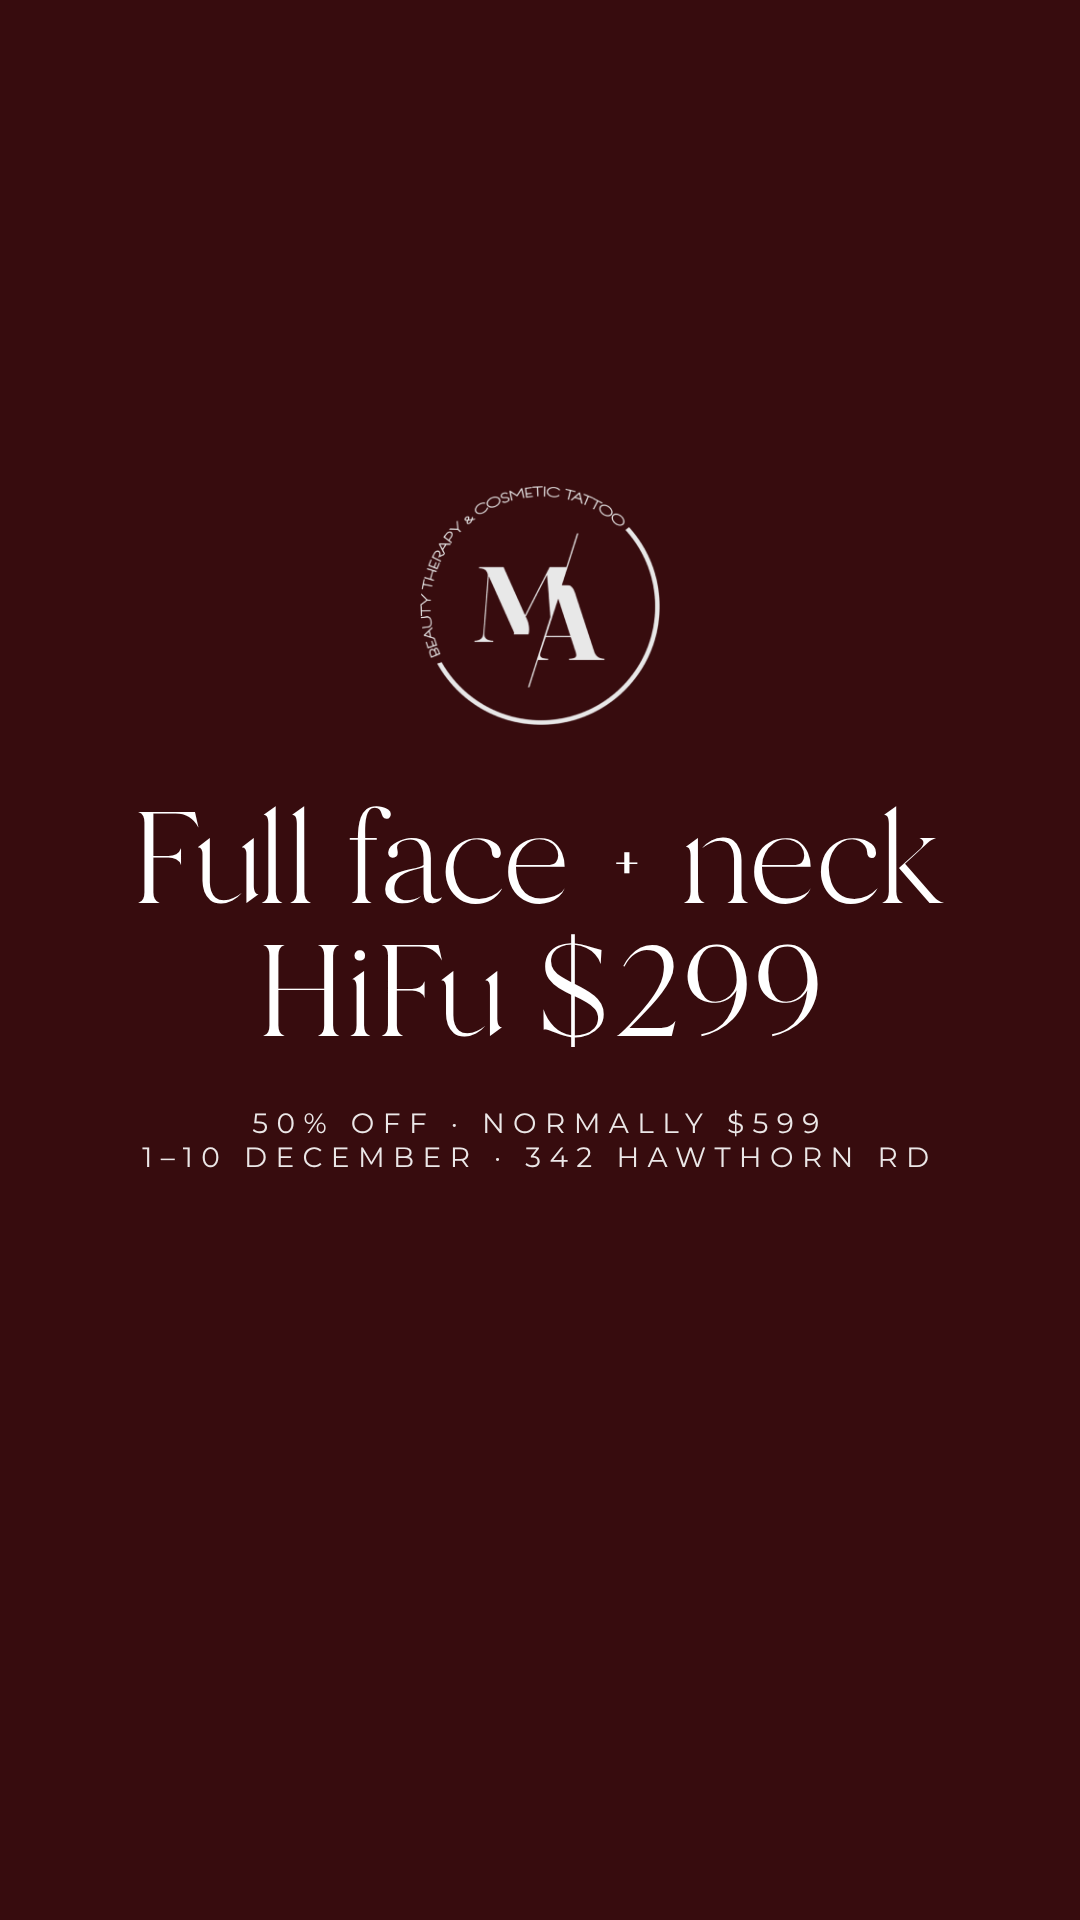
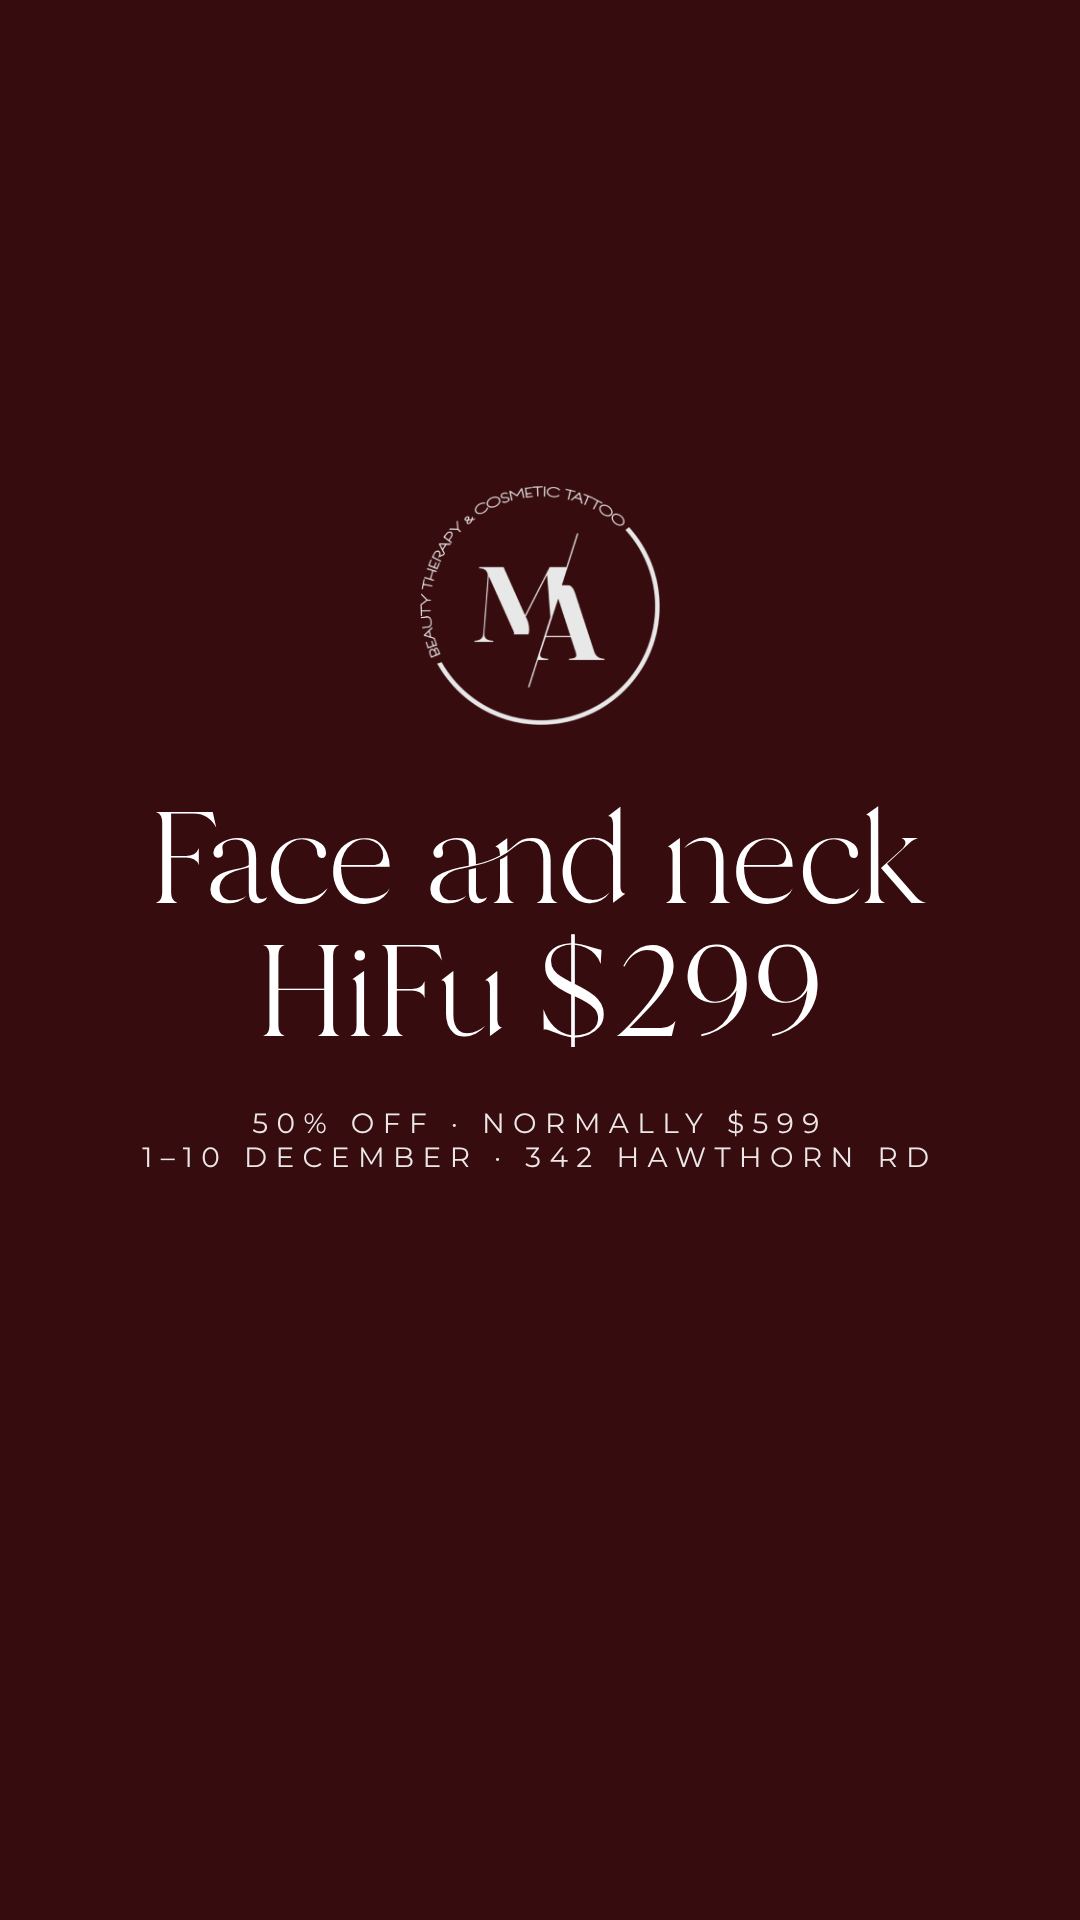
HiFu Christmas video: three faces, cleaner text placement
Claude-Session: https://claude.ai/code/session_01FRXbSczGoVco3RLoUk7ePa

Changed region(s): [[0.1222, 0.4062, 0.5806, 0.4688], [0.6111, 0.4062, 0.8556, 0.4688]]

diff --git a/marketing/videos/2026-11-21-hifu-christmas/end.html b/marketing/videos/2026-11-21-hifu-christmas/end.html
@@ -1,1 +1,1 @@
-<!doctype html><html><head><meta charset="utf-8"><link rel="stylesheet" href="../../../brand/templates/ma.css"><style>html,body{background:transparent}body{background:var(--ox)!important}.wrap{position:absolute;inset:0 0 260px 0;display:flex;flex-direction:column;align-items:center;justify-content:center;text-align:center;color:#fff;padding:0 100px}.logo{width:240px;margin-bottom:70px}.t{font-family:Branch,Georgia,serif;font-size:130px;line-height:1.02}.s{margin-top:46px;font-family:Montserrat,sans-serif;font-size:28px;letter-spacing:.3em;text-transform:uppercase;opacity:.9}</style></head><body><div class="wrap"><img class="logo" src="../../../brand/logo-white.png"><div class="t">Full face + neck<br>HiFu $299</div><div class="s">50% off · normally $599<br>1–10 December · 342 Hawthorn Rd</div></div></body></html>
+<!doctype html><html><head><meta charset="utf-8"><link rel="stylesheet" href="../../../brand/templates/ma.css"><style>html,body{background:transparent}body{background:var(--ox)!important}.wrap{position:absolute;inset:0 0 260px 0;display:flex;flex-direction:column;align-items:center;justify-content:center;text-align:center;color:#fff;padding:0 100px}.logo{width:240px;margin-bottom:70px}.t{font-family:Branch,Georgia,serif;font-size:130px;line-height:1.02}.s{margin-top:46px;font-family:Montserrat,sans-serif;font-size:28px;letter-spacing:.3em;text-transform:uppercase;opacity:.9}</style></head><body><div class="wrap"><img class="logo" src="../../../brand/logo-white.png"><div class="t">Face and neck<br>HiFu $299</div><div class="s">50% off · normally $599<br>1–10 December · 342 Hawthorn Rd</div></div></body></html>

diff --git a/marketing/videos/2026-11-21-hifu-christmas/t4.html b/marketing/videos/2026-11-21-hifu-christmas/t4.html
@@ -1,1 +1,1 @@
-<!doctype html><html><head><meta charset="utf-8"><link rel="stylesheet" href="../../../brand/templates/ma.css"><style>html,body{background:transparent}.t{position:absolute;left:70px;top:320px;max-width:860px;display:inline-block;background:rgba(55,12,14,.9);color:#fff;font-family:'Helvetica Neue',Helvetica,Arial,sans-serif;font-weight:400;font-size:54px;line-height:1.2;padding:26px 36px 30px;border-radius:6px}.s{margin-top:12px;font-family:Montserrat,sans-serif;font-size:22px;letter-spacing:.3em;text-transform:uppercase}</style></head><body><div class="t">Lift and tighten.<br>No needles.</div></body></html>
+<!doctype html><html><head><meta charset="utf-8"><link rel="stylesheet" href="../../../brand/templates/ma.css"><style>html,body{background:transparent}.t{position:absolute;left:70px;top:320px;max-width:860px;display:inline-block;background:rgba(55,12,14,.9);color:#fff;font-family:'Helvetica Neue',Helvetica,Arial,sans-serif;font-weight:400;font-size:54px;line-height:1.2;padding:26px 36px 30px;border-radius:6px}.s{margin-top:12px;font-family:Montserrat,sans-serif;font-size:22px;letter-spacing:.3em;text-transform:uppercase}</style></head><body><div class="t">Done by Mira<div class="s">Decades in skin and body</div></div></body></html>

diff --git a/marketing/videos/2026-11-21-hifu-christmas/t1.html b/marketing/videos/2026-11-21-hifu-christmas/t1.html
@@ -1,1 +1,1 @@
-<!doctype html><html><head><meta charset="utf-8"><link rel="stylesheet" href="../../../brand/templates/ma.css"><style>html,body{background:transparent}.t{position:absolute;left:70px;top:320px;max-width:860px;display:inline-block;background:rgba(55,12,14,.9);color:#fff;font-family:Branch,Georgia,serif;font-size:92px;line-height:1.06;padding:34px 44px 40px;border-radius:6px}.s{margin-top:18px;font-family:Montserrat,sans-serif;font-size:24px;letter-spacing:.3em;text-transform:uppercase}</style></head><body><div class="t">Christmas HiFu<br>50% off<div class="s">10 days only</div></div></body></html>
+<!doctype html><html><head><meta charset="utf-8"><link rel="stylesheet" href="../../../brand/templates/ma.css"><style>html,body{background:transparent}.t{position:absolute;left:70px;top:320px;max-width:860px;display:inline-block;background:rgba(55,12,14,.9);color:#fff;font-family:Branch,Georgia,serif;font-size:92px;line-height:1.06;padding:34px 44px 40px;border-radius:6px}.s{margin-top:18px;font-family:Montserrat,sans-serif;font-size:24px;letter-spacing:.3em;text-transform:uppercase}</style></head><body><div class="t">Christmas HiFu<br>50% off<div class="s">Full face + neck · 10 days only</div></div></body></html>

diff --git a/marketing/videos/2026-11-21-hifu-christmas/t2.html b/marketing/videos/2026-11-21-hifu-christmas/t2.html
@@ -1,1 +1,1 @@
-<!doctype html><html><head><meta charset="utf-8"><link rel="stylesheet" href="../../../brand/templates/ma.css"><style>html,body{background:transparent}.t{position:absolute;left:70px;top:820px;max-width:860px;display:inline-block;background:rgba(55,12,14,.9);color:#fff;font-family:'Helvetica Neue',Helvetica,Arial,sans-serif;font-weight:400;font-size:54px;line-height:1.2;padding:26px 36px 30px;border-radius:6px}</style></head><body><div class="t">Full face + neck</div></body></html>
+<!doctype html><html><head><meta charset="utf-8"><link rel="stylesheet" href="../../../brand/templates/ma.css"><style>html,body{background:transparent}.t{position:absolute;left:70px;top:1150px;max-width:860px;display:inline-block;background:rgba(55,12,14,.9);color:#fff;font-family:'Helvetica Neue',Helvetica,Arial,sans-serif;font-weight:400;font-size:54px;line-height:1.2;padding:26px 36px 30px;border-radius:6px}.s{margin-top:12px;font-family:Montserrat,sans-serif;font-size:22px;letter-spacing:.3em;text-transform:uppercase}</style></head><body><div class="t">Full face + neck</div></body></html>
